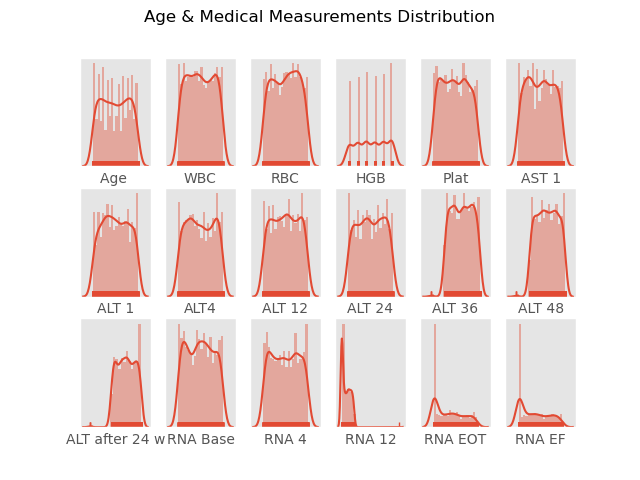
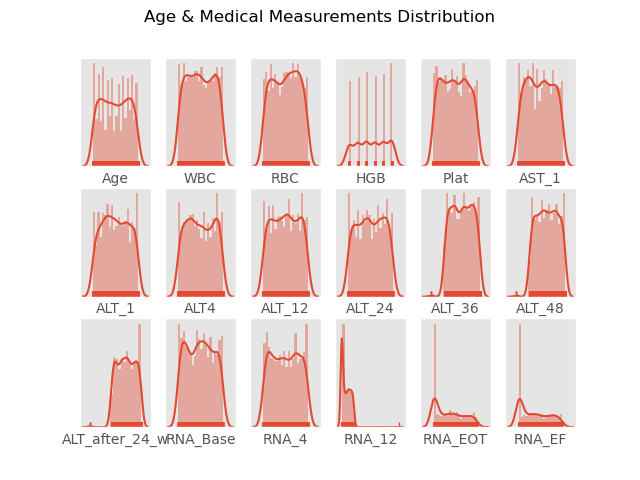
changed color palette and cleansed plots

diff --git a/src/viz/eda.py b/src/viz/eda.py
@@ -15,7 +15,7 @@ features_col = list(dataset.columns)[:-2]
 new_features_col = ['Age', 'Male','Female','BMI',
                     'No Fever','Fever', 'No Nausea/Vomiting','Nausea/Vomiting',
                     'No Headache','Headache', 'No Diarrhea','Diarrhea',
-                    'No Fatigue+Boneache','Fatigue+Boneache',
+                    'No Fatigue','Fatigue',
                     'No Jaundice','Jaundice', 'No Epigastric pain', 'Epigastric pain',
                     'WBC','RBC','HGB','Plat','AST 1','ALT 1','ALT4','ALT 12','ALT 24','ALT 36','ALT 48',
                     'ALT after 24 w','RNA Base', 'RNA 4','RNA 12','RNA EOT','RNA EF']
@@ -44,7 +44,7 @@ f = plt.figure(figsize=(15, 15))
 plt.matshow(x_df.corr(), fignum=f.number)
 plt.xticks(range(x_df.shape[1]), x_df.columns, fontsize=10, rotation=90)
 plt.yticks(range(x_df.shape[1]), x_df.columns, fontsize=10)
-cb = plt.colorbar()
+cb = plt.colorbar(cmap='plasma')
 cb.ax.tick_params(labelsize=10)
 plt.title('Correlation Matrix', fontsize=16, y=1.22)
 plt.savefig('src/viz/plots/cross_correlation_matrix.png')
@@ -52,8 +52,10 @@ plt.savefig('src/viz/plots/cross_correlation_matrix.png')
 
 
 cat_cols = ['Gender','BMI','Fever','Nausea/Vomting','Headache ',
-                'Diarrhea ','Fatigue & generalized bone ache ','Jaundice ','Epigastric pain ']
+                'Diarrhea ','Fatigue ','Jaundice ','Epigastric_pain ']
 cont_cols = [x for x in features_col if x not in cat_cols]
+
+
 
 plt.clf()
 plt.cla()
@@ -70,6 +72,7 @@ for i, ax in zip(range(18), ax.flat):
 
 plt.savefig('src/viz/plots/med_measurements_dist.png')
 
+custom_palette = sns.set_palette(sns.color_palette("rocket"))
 plt.clf()
 plt.cla()
 plt.style.use('ggplot')
@@ -80,7 +83,7 @@ for i, ax in zip(range(9), ax.flat):
     ax.label_outer()
     ax.set_xticks([])
     #ax.set_yticks([])
-    sns.countplot(dataset[cat_cols[i]], label=cat_cols[i], ax=ax)
+    sns.countplot(dataset[cat_cols[i]], label=cat_cols[i], ax=ax, palette="rocket")
     ax.set_xlabel(cat_cols[i], fontsize=10)
 
 plt.savefig('src/viz/plots/sympthoms_measurements_dist.png')
@@ -105,20 +108,22 @@ y_reg = y_reg/np.max(y_reg)
 y_reg = [element[0] for element in y_reg]
 
 plt.clf()
-sns.countplot(t_names)
-#sns.title("Target Distribution for Classification")
+sns.countplot(t_names, palette="rocket")
+plt.title("Target Distribution for Classification")
 plt.savefig('src/viz/plots/target_classes.png')
 
 
 plt.clf()
-sns.countplot(y_reg)
-#sns.title("Target Distribution for Regression")
+sns.countplot(y_reg, palette="rocket")
+plt.title("Target Distribution for Regression")
+plt.xticks([])
 plt.savefig('src/viz/plots/target_regr.png')
 
 plt.clf()
 
-sns.countplot(x=dataset['Baselinehistological staging'],hue=dataset['Gender'])
+sns.countplot(x=dataset['Baselinehistological_staging'],hue=dataset['Gender'], palette="rocket")
 plt.legend(bbox_to_anchor=(1,1))
 plt.title("Gender Chart for Histological Staging")
 plt.xlabel("Histological Staging")
+plt.xticks([])
 plt.savefig('src/viz/plots/gender_chart_staging.png')
